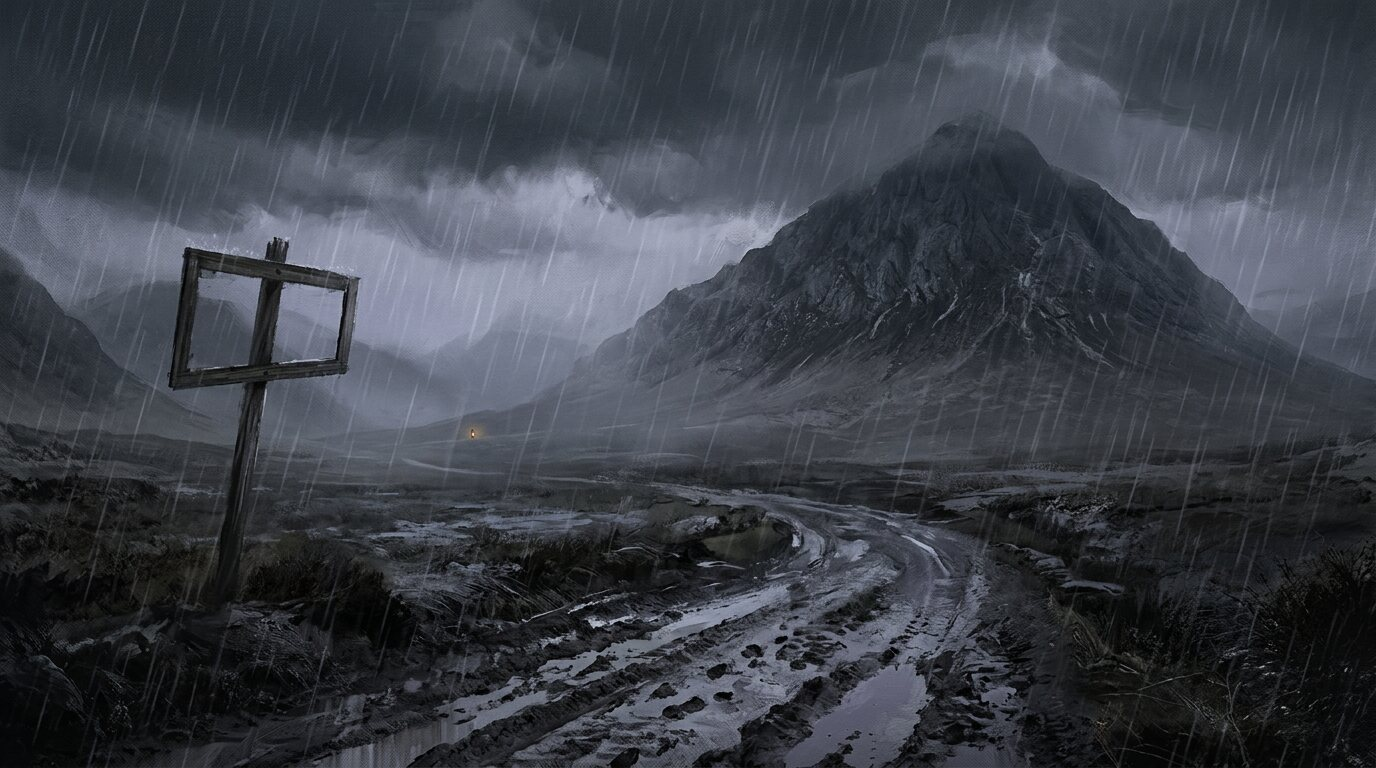
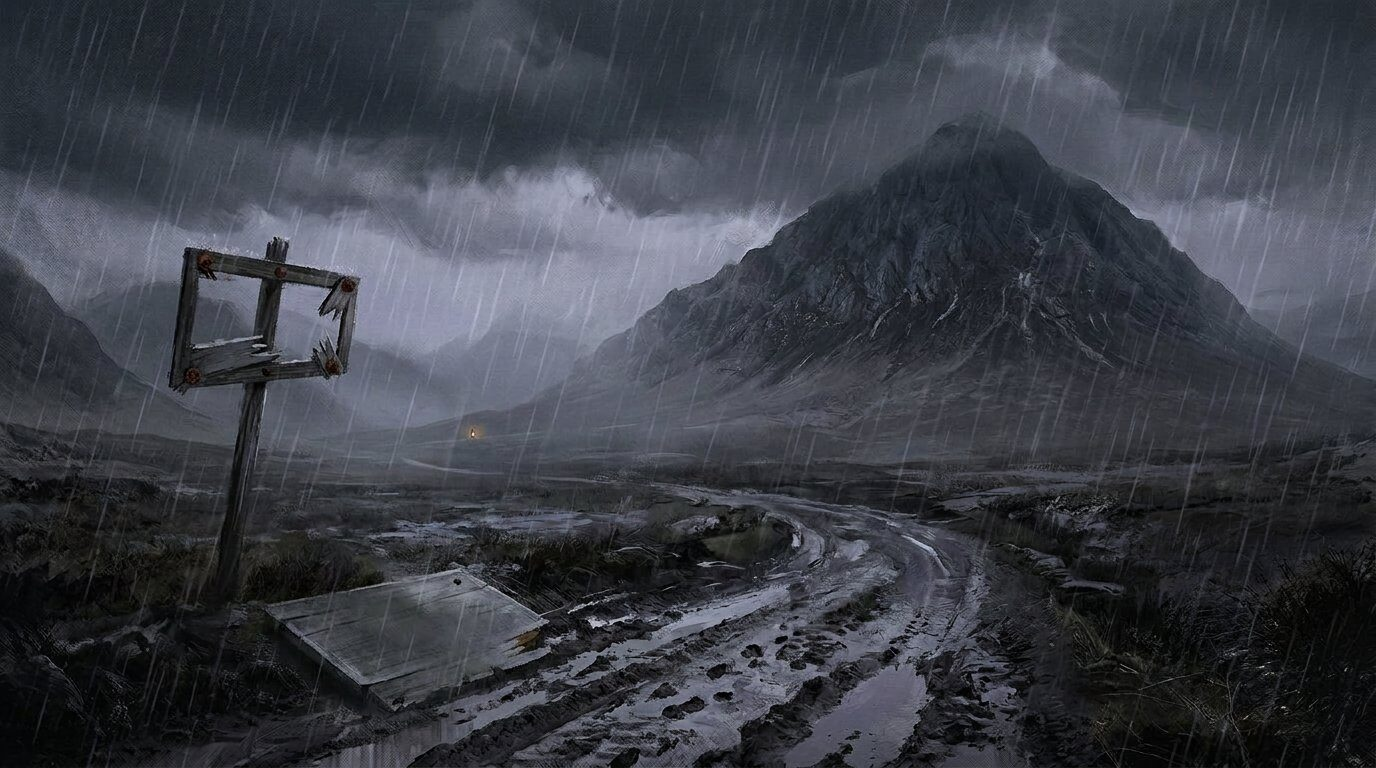
Image generation guide; re-cut the Mount Ebot images from the prose
The first Mount Ebot set was generated from vibes and came out generic: two
blank signs, a helicopter tagged with the invented word CRERA, and stock storm
scenery that could have illustrated any filing in the archive.

- docs/IMAGE_GENERATION_GUIDE.md (new): prompt sheet BEFORE generating, art
  direction taken from the prose, the corrected text-in-image rule, view every
  result, fix by editing rather than rerolling. Worked examples for all six
  Mount Ebot slots with the source lines quoted.
- Corrected the 'never put text in an image' rule in README.md and gemini.md.
  It was wrong: the memorial plank and the one-T summit marker ARE their text.
- Re-cut all six images as edits of the originals, each carrying detail from
  the section it illustrates: torn-down signpost, half-scrubbed livery with no
  lettering, severed tail boom and the 61-foot gouge, the six pale trigger
  plates and brass nozzles, the four burned names with PRINCE ALPHONSE rubbed
  grey, and MOUNT EBOT - SUMMIT - 1,340 FT spelled with one T.
- Updated four captions to match what the images now show.
- Indexed the new guide in the entry README doc table.

Changed region(s): [[0.1875, 0.7188, 0.4375, 0.9375], [0.125, 0.3125, 0.2812, 0.5], [0.4688, 0.9375, 0.5, 0.9688]]

diff --git a/docs/IMAGE_GENERATION_GUIDE.md b/docs/IMAGE_GENERATION_GUIDE.md
@@ -1,0 +1,283 @@
+# Image Generation Guide — building the prompt before spending the generation
+
+**Every generation costs. Write the prompt sheet first, review it, then generate.**
+
+This guide exists because the first pass of Mount Ebot images was generated
+straight from vibes — "storm, mountain, dark fantasy" — and produced six
+technically competent pictures that could have illustrated *any* story in the
+archive. A blank signpost. A generic stone bridge. A helicopter with the
+nonsense word `CRERA` on the tail. None of it was wrong, exactly. It was
+*unspecific*, which in this archive is the same as wrong.
+
+> **The test:** could this image be dropped into a different filing without
+> anyone noticing? If yes, it is not an illustration of *this* story. Delete
+> the prompt and start again.
+
+---
+
+## The rule that governs everything else
+
+**The prose is the art direction.** You are not inventing a scene. The scene
+already exists, in detail, in `overview` text somebody wrote carefully. Your
+job is transcription, not imagination.
+
+Before writing a single prompt, open the section and pull out every concrete
+noun: materials, measurements, damage, weather, light sources, what is written
+on things, what is broken, what colour the blood is. The story has already done
+the work. **Mount Ebot gives you "tape across the fuel gauge," "rings like a
+bin lid," "sixty-one feet," "no wider than a coin," "weathered silver,"
+"1,340 FT."** Every one of those is a visual instruction. A prompt that does
+not use them is a prompt written by someone who did not read the section.
+
+---
+
+## The process, in order
+
+### Step 1 — Build the prompt sheet (no generation yet)
+
+Create a scratch file — `/tmp/<slug>-prompts.md` — with one block per planned
+image. **Do not call `generate_image` during this step.** The sheet is a
+deliverable in its own right: it gets reviewed, corrected, and only then spent.
+
+Each block must contain:
+
+| Field | What goes in it |
+|---|---|
+| **Slot** | `lead`, or the section number and name |
+| **Source lines** | The literal sentences from the prose the image must depict. Quote them. |
+| **Must appear** | The checklist of specific objects. This is what you verify against afterwards. |
+| **Must NOT appear** | The generic defaults to suppress — usually people, and usually the wrong century of technology |
+| **Text in image** | Either `NONE` or the exact string, letter for letter |
+| **Prompt** | The final prompt text |
+
+### Step 2 — Review the sheet against the prose
+
+Read each "Must appear" list next to the section text. Anything in the list not
+traceable to a sentence is invention — cut it. Anything vivid in the section
+missing from the list — add it. This is the cheap step. Do it properly and the
+expensive step usually works first time.
+
+### Step 3 — Generate
+
+One call per slot, `generate_image`, saving straight to the final path.
+
+### Step 4 — **Look at every image you generated**
+
+Non-negotiable. Call `read_file` on each one and actually look at it. The model
+will confidently hand back a signpost with no sign on it. Check against the
+"Must appear" list, item by item.
+
+### Step 5 — Edit rather than reroll
+
+`generate_image` takes an `images` array. Pass the existing file and describe
+**only the change**. This preserves the composition and lighting you already
+paid for and fixes the one thing that is wrong. Rerolling from scratch throws
+away a good frame to fix a small defect.
+
+### Step 6 — Compress, wire, verify
+
+Covered in [Anatomy](#anatomy-of-a-prompt) and the checklist at the end.
+
+---
+
+## The text-in-image rule — **corrected**
+
+An earlier version of this guide said "never put text in an image, generated
+lettering always renders wrong." **That rule was wrong and it damaged the
+Mount Ebot set.**
+
+The truth is more specific:
+
+- **Text the story requires is mandatory.** The Mount Ebot file is *about* a
+  missing letter T. A summit plank reading `MOUNT EBOT — SUMMIT — 1,340 FT`
+  is the punchline of a 6,000-word filing made visible. A memorial plank whose
+  whole meaning is that one of four burned names has been rubbed grey **cannot**
+  be depicted as a blank plank. Rendering those blank does not avoid a risk; it
+  throws away the entire point of the picture.
+- **Decorative text is forbidden.** Never let the model free-associate lettering
+  — that is where `CRERA` came from. If text is not specified exactly, say
+  `no text, no lettering, no signage, no watermarks` and mean it.
+- **When text is required, give it letter for letter, in caps, in quotes**, and
+  keep it short. Long strings degrade. State the medium too — *burned into the
+  wood with a hot iron, strokes wobbling* — because "how it was made" controls
+  the letterforms better than the word "text" does.
+- **Then read the image and check the spelling by eye.** Especially where the
+  joke is a spelling. If it comes back `EBOTT` on the plank, the image has told
+  the opposite of the story and must be edited.
+
+---
+
+## Anatomy of a prompt
+
+Six parts, in this order. The first and last are fixed; the middle four come
+from the prose.
+
+1. **Medium + register.** `Moody painterly digital concept art, dark fantasy
+   archive plate, wide cinematic 16:9.` Keeps the set visually consistent —
+   every image in the archive should look like it came from the same hand.
+2. **Subject and camera.** What we are looking at and from where. *Seen from
+   deep inside looking back toward the entrance* is worth more than any
+   adjective.
+3. **The specific objects**, with their materials and measurements, straight
+   from the prose. This is the bulk of the prompt and the part that stops the
+   image being generic.
+4. **Light and weather**, also from the prose. Name the sources and their
+   colours: *cold blue daylight from the slot, warm orange from a dropped
+   lantern.*
+5. **Palette.** `Desaturated slate, violet shadow, wet stone reflections.`
+6. **Negatives.** `No people, no text.` (or the exact required text), then
+   `Oil-painting texture, atmospheric depth, high detail.`
+
+**On people:** default to `no people`. Faces and hands are where generators
+fail hardest, and a place photographed empty reads as archival evidence, which
+is the voice of this wiki. Depict the aftermath instead of the actor — the
+gouge in the gravel, not the crash; the burned plank, not the mourner.
+
+---
+
+## Worked examples — the Mount Ebot set
+
+These are the real prompt blocks for the six shipped images, rebuilt from the
+prose. Use them as the pattern.
+
+### Slot 1 — lead — the mountain and the empty signpost
+
+**Source lines:** *"1,340 feet of wet slate"*; caption: *"The board on the
+signpost was already missing."*
+
+**Must appear:** a signpost frame with the board genuinely gone (empty rectangle,
+two bolt holes, split where it was levered off); a rutted mud track running to
+the peak; a squat 1,340-ft slate mountain — a hill, not an alp; heavy rain.
+**Must NOT appear:** people, vehicles, dramatic alpine scale.
+**Text:** NONE — the missing board *is* the subject.
+
+> Moody painterly digital concept art, dark fantasy archive plate, wide cinematic
+> 16:9. A wet valley track of churned mud and standing puddles leading toward a
+> squat, broad slate mountain about 1,340 feet high — a big ugly hill, not an
+> alpine peak, streaked with rain and scree. In the left foreground a weathered
+> timber signpost whose board has been torn off: an empty rectangular frame, two
+> rusted bolts and two empty bolt holes, the wood split where the sign was levered
+> away. Heavy grey rain, low dragging cloud, one distant amber-lit window far off
+> in the valley. Desaturated slate and violet shadow, wet reflections. No people,
+> no text, no lettering. Oil-painting texture, high detail.
+
+### Slot 2 — §IV — the charter on the villa pad
+
+**Source lines:** *"a chartered grey thing with the livery half-scrubbed off and
+tape across the fuel gauge"*; *"a cracked chin-bubble"*; *"patted the charter's
+flank, which rang like a bin lid"*; the loaded crates — *rations, coils of rope,
+a crate of climbing iron, the oilcloth-wrapped map, six wrapped loaves.*
+
+**Must appear:** grey helicopter, livery **half-scrubbed** (ghost of paint, not
+clean); cracked chin bubble; thin dented panels; night villa pad with a lit
+balcony; crates, rope coils, oilcloth bundle.
+**Must NOT appear:** military markings, invented squadron text, crisp new paint.
+**Text:** NONE on the airframe. *(The taped fuel gauge is cockpit-interior
+detail — it is carried by the caption, not the frame.)*
+
+> …a fat grey civilian charter helicopter on a stone villa landing pad at night,
+> its livery **half scrubbed off leaving ghost patches of old paint and bare
+> primer**, the chin bubble cracked in a spiderweb, thin dented panels. Wooden
+> crates, coils of rope, and an oilcloth-wrapped bundle stacked by the skids. A
+> lit stone balcony above… **absolutely no lettering, no numbers, no insignia
+> anywhere on the aircraft.**
+
+### Slot 3 — §IX — the cave took the aircraft in
+
+**Source lines:** *"a black slot in the streaming stone, wide enough and no
+wider"*; *"sixty-one feet"* of slide; *"the tail boom screaming along the wall
+until a boulder took it off"*; *"the slow tick, tick, tick of hot metal."*
+
+**Must appear:** the gouge in wet gravel behind the wreck; **tail boom torn
+off** and lying separately by a boulder; snapped rotor; the entrance slot as a
+narrow bright gash high in the wall; a dropped lantern.
+**Text:** NONE.
+
+### Slot 4 — §XIII — the bridge that had been improved
+
+**Source lines:** *"cut stone, mortared, with a low parapet and drainage
+channels"*; *"slots — clean, machined, no wider than a coin, spaced a stride
+apart"* at knee and shin height; *"brass nozzles the diameter of a thumb…
+their throats black with old soot"*; *"six stone plates a shade paler than the
+rest of the stonework, each one set a fraction low."*
+
+**Must appear:** all four improvements, **including the six pale sunken plates
+in the deck** and the brass nozzles under the deck lip. The plates are the
+mechanism of the scene; an image without them is just a bridge.
+**Text:** NONE.
+
+### Slot 5 — §XIV — four names on a plank
+
+**Source lines:** *"A plank, a hand's width thick, weathered silver, bolted to
+two iron stakes driven deep. The lettering was burned in rather than painted —
+a hot iron, worked slowly, the strokes wobbling where the hand had got tired."*
+The fourth name *"rubbed, repeatedly, with something soft and greasy, until the
+burned grooves had filled with grey."*
+
+**Text: REQUIRED, exactly** —
+`RIP - 4 MISSING HUMANS` / `JAVIER  MIKAELA  DANIEL` / `PRINCE ALPHONSE`
+— with the last line rubbed grey and half-illegible while the three names above
+stay crisp. **This is the entire content of the image.** A blank plank here is a
+failed image, not a safe one.
+
+### Slot 6 — §XVII — one T
+
+**Source lines:** *"a cairn, a view of grey rain in every direction, and a
+second plank… smaller and older… nailed to a post."* The map opened on the flat
+of the cairn, cartouche reading `THE OLD WORLD MAPPING COMPANY`.
+
+**Text: REQUIRED, exactly** — `MOUNT EBOT` / `SUMMIT - 1,340 FT` /
+`NO FURTHER SERVICE`. **`EBOT` has ONE T.** The joke, the title, and the cause
+of the entire disaster are all that single letter. Verify it by eye after
+generation; if it renders `EBOTT`, edit the image until it does not.
+
+---
+
+## Naming, compression, wiring
+
+**Path:** `Reputation-Matrix2/assets/images/<type>/<slug>/<prefix>-<nn>-<subject>.jpg`
+— e.g. `assets/images/events/mount-ebot/ebot-04-bridge.jpg`. Zero-padded,
+numbered in order of appearance.
+
+**Compress before committing.** Generated files are far too heavy for a static
+site. This environment has **ImageMagick v6 only** — there is no `magick`,
+`cwebp`, `pngquant`, or `optipng`:
+
+```bash
+convert in.png -resize 1600x1600\> -strip -interlace Plane -quality 82 out.jpg
+```
+
+Target **under ~300 KB**. Check with `ls -la`; re-run at lower quality on any
+file that is over.
+
+**Wire into the JSON** (paths relative to `Reputation-Matrix2/`):
+
+```json
+"image": "assets/images/events/mount-ebot/ebot-01-mountain.jpg",
+"imageCaption": "Mount Ebot from the valley track, photographed on a later survey. One T."
+```
+
+`image` + `imageCaption` on the **record** render the lead figure
+(`index.html` → `figure.article-lead-img`); the same two keys on a **section**
+object render an inline figure (`figure.section-figure`, lazy-loaded). A wrong
+path fails silently to a placeholder, so verify on the page.
+
+**Captions are filings, not alt text.** State what is shown, when it was taken,
+and what it proves or cost. *"The bridge"* fails. *"Machined slots at knee and
+shin height, razors angled to catch a leg going forward"* passes. The caption
+may carry detail the picture cannot — the taped fuel gauge, the pacing-out of
+sixty-one feet — and it is the right place for the archive's dry verdict.
+
+---
+
+## Final checklist
+
+- [ ] Prompt sheet written and reviewed **before** any generation
+- [ ] Every "Must appear" item traceable to a sentence in the prose
+- [ ] Required text specified letter for letter; decorative text suppressed
+- [ ] Every generated image **actually viewed** with `read_file`
+- [ ] Spelling on any in-image lettering checked by eye
+- [ ] Defects fixed by **editing** the existing image, not rerolling
+- [ ] All files under ~300 KB
+- [ ] Paths wired into the JSON and confirmed to exist on disk
+- [ ] Article loaded in a browser; every figure renders

diff --git a/Reputation-Matrix2/README.md b/Reputation-Matrix2/README.md
@@ -120,16 +120,20 @@ Every new session event or long narrative filing ships **with images**. This is 
 **Step by step:**
 
 1. **Pick the beats.** One lead image for the record, plus one image for each section that contains a *place, an object, or a piece of evidence a reader would want to look at*. Three to six section images for a long filing is the working band. Do not illustrate every section — illustrate the ones where seeing the thing changes how the paragraph lands.
-2. **Generate the image.** Use the `generate_image` tool. Write the prompt from the prose itself: the actual weather, the actual materials, the actual time of day, the actual damage. Ask for **in-world documentary photography or survey plate**, not concept art or a poster. No text, no lettering, no captions burned into the image — captions are a data field, and generated lettering always comes out wrong.
-3. **Save to the right place.** `Reputation-Matrix2/assets/images/events/<event-slug>/<prefix>-<nn>-<subject>.jpg` — zero-padded, ordered by appearance. Example: `assets/images/events/mount-ebot/ebot-03-cave.jpg`.
-4. **Compress before committing.** Generated files land far too large for a static site. This environment has **ImageMagick v6 only** — there is no `magick`, `cwebp`, `pngquant`, or `optipng`. Use:
+2. **Write the prompt sheet first — before generating anything.** Generations cost. Pull the concrete nouns out of the section (materials, measurements, damage, light sources, what is written on things) and write a block per image listing the source lines, a "must appear" checklist, and the prompt. Review that sheet against the prose, *then* spend the calls. Full procedure and worked examples: [`docs/IMAGE_GENERATION_GUIDE.md`](../docs/IMAGE_GENERATION_GUIDE.md).
+3. **Generate the image.** Use the `generate_image` tool, prompting from the prose itself: the actual weather, the actual materials, the actual time of day, the actual damage. Ask for **in-world documentary photography or survey plate**, not concept art or a poster.
+4. **Text in the image: only when the story requires it.** Decorative lettering is forbidden — left free, the model invents nonsense words. But when the prose turns on something written (a memorial plank, a summit marker, a spelling that caused the disaster), that text is the *subject* and must be specified letter for letter, in caps, in quotes, with the medium described ("burned in with a hot iron, strokes wobbling"). Then check the spelling by eye afterwards.
+5. **Look at every image you generated.** `read_file` each one and actually inspect it against the checklist. The model will hand back a blank signpost without comment.
+6. **Fix defects by editing, not rerolling.** `generate_image` accepts an `images` array — pass the existing file and describe only the change. This keeps the composition you already paid for.
+7. **Save to the right place.** `Reputation-Matrix2/assets/images/events/<event-slug>/<prefix>-<nn>-<subject>.jpg` — zero-padded, ordered by appearance. Example: `assets/images/events/mount-ebot/ebot-03-cave.jpg`.
+8. **Compress before committing.** Generated files land far too large for a static site. This environment has **ImageMagick v6 only** — there is no `magick`, `cwebp`, `pngquant`, or `optipng`. Use:
 
    ```bash
    convert in.png -resize 1600x1600\> -strip -interlace Plane -quality 82 out.jpg
    ```
 
    Target **under ~300 KB per image**. Check with `ls -la` and re-run at a lower quality if any file is over.
-5. **Wire it into the JSON.** Paths are relative to `Reputation-Matrix2/`, and both fields are optional per level:
+9. **Wire it into the JSON.** Paths are relative to `Reputation-Matrix2/`, and both fields are optional per level:
 
    ```json
    "image": "assets/images/events/mount-ebot/ebot-01-mountain.jpg",
@@ -137,8 +141,8 @@ Every new session event or long narrative filing ships **with images**. This is 
    ```
 
    `image` / `imageCaption` on the **record** renders the lead figure; the same two keys on a **section** object render an inline figure inside that section.
-6. **Write the caption in archive voice.** A caption is a filing, not alt text. It states what is shown, when it was taken, and what it proves or costs. "The bridge" is a failure. "Machined slots at knee and shin height, razors angled to catch a leg going forward" is a caption.
-7. **Verify.** Confirm the JSON parses, load the article, and check every figure actually renders — a wrong path fails silently into a placeholder.
+10. **Write the caption in archive voice.** A caption is a filing, not alt text. It states what is shown, when it was taken, and what it proves or costs. "The bridge" is a failure. "Machined slots at knee and shin height, razors angled to catch a leg going forward" is a caption.
+11. **Verify.** Confirm the JSON parses, load the article, and check every figure actually renders — a wrong path fails silently into a placeholder.
 
 ### Attaching exhibits (clickable in-world documents)
 

diff --git a/Reputation-Matrix2/gemini.md b/Reputation-Matrix2/gemini.md
@@ -49,18 +49,22 @@ If a week passes with none of the above, **no episode is cut** and the existing 
 ### A. Images — the procedure
 
 1.  **Choose the beats.** One lead image on the record, then one per section containing a place, an object, or a piece of evidence worth looking at. Three to six section images on a long filing. Illustrate where seeing the thing changes the paragraph; skip the rest.
-2.  **Generate.** Use the `generate_image` tool, prompting from the prose itself — real weather, real materials, real time of day, real damage. Ask for **in-world documentary photography or a survey plate**, never concept art or a poster. **No text or lettering in the image**; captions are a data field and generated lettering always renders wrong.
-3.  **Save.** `Reputation-Matrix2/assets/images/events/<event-slug>/<prefix>-<nn>-<subject>.jpg`, zero-padded and ordered by appearance.
-4.  **Compress.** Generated files are far too heavy for a static site. This environment has **ImageMagick v6 only** — no `magick`, `cwebp`, `pngquant`, or `optipng`:
+2.  **Write the prompt sheet before generating.** Generations cost — do not spend them on vibes. Pull the concrete nouns from the section (materials, measurements, damage, light, what is written on things) into a per-image block: source lines, "must appear" checklist, prompt. Review it against the prose, then generate. Full procedure and worked examples: [`../docs/IMAGE_GENERATION_GUIDE.md`](../docs/IMAGE_GENERATION_GUIDE.md).
+3.  **Generate.** Use the `generate_image` tool, prompting from the prose itself — real weather, real materials, real time of day, real damage. Ask for **in-world documentary photography or a survey plate**, never concept art or a poster.
+4.  **Text in the image only when the story requires it.** Decorative lettering is forbidden — unprompted, the model invents nonsense (a Mount Ebot helicopter came back tagged `CRERA`). But when the prose turns on something written — a memorial plank, a summit marker, the one-T spelling that caused the disaster — that text *is* the subject: specify it letter for letter, in caps, in quotes, and describe the medium ("burned in with a hot iron, wobbling strokes"). Check the spelling by eye afterwards.
+5.  **View every generated image** with `read_file` and check it against the "must appear" list. The model will return a blank signpost and say nothing.
+6.  **Fix defects by editing, not rerolling** — pass the file in `generate_image(images=[...])` and describe only the change.
+7.  **Save.** `Reputation-Matrix2/assets/images/events/<event-slug>/<prefix>-<nn>-<subject>.jpg`, zero-padded and ordered by appearance.
+8.  **Compress.** Generated files are far too heavy for a static site. This environment has **ImageMagick v6 only** — no `magick`, `cwebp`, `pngquant`, or `optipng`:
 
     ```bash
     convert in.png -resize 1600x1600\> -strip -interlace Plane -quality 82 out.jpg
     ```
 
     Target **under ~300 KB**. Confirm with `ls -la`; drop the quality and re-run on anything over.
-5.  **Wire.** Paths are relative to `Reputation-Matrix2/`. `"image"` + `"imageCaption"` on the record render the lead figure; the same two keys on a section object render an inline figure in that section.
-6.  **Caption in archive voice.** State what is shown, when, and what it proves or cost. A caption is a filing, not alt text.
-7.  **Verify.** JSON parses, article loads, every figure renders — a bad path fails silently to a placeholder.
+9.  **Wire.** Paths are relative to `Reputation-Matrix2/`. `"image"` + `"imageCaption"` on the record render the lead figure; the same two keys on a section object render an inline figure in that section.
+10. **Caption in archive voice.** State what is shown, when, and what it proves or cost. A caption is a filing, not alt text.
+11. **Verify.** JSON parses, article loads, every figure renders — a bad path fails silently to a placeholder.
 
 ### B. Exhibits — clickable in-world documents
 

diff --git a/README.md b/README.md
@@ -86,6 +86,7 @@ Six things that explain nearly every decision in this repository:
 | [`docs/STORY_FORMAT_GUIDE.md`](docs/STORY_FORMAT_GUIDE.md) | Craft standard for **canon session events** — prose, asides, apparatus, battle pages | Writing an event |
 | [`docs/WHATIF_FORMAT_GUIDE.md`](docs/WHATIF_FORMAT_GUIDE.md) | Craft standard for **non-canon What-Ifs** — decision engine, ledger, findings, verdict | Writing a What-If |
 | [`docs/RNN_BROADCAST_GUIDE.md`](docs/RNN_BROADCAST_GUIDE.md) | The news broadcast. **One episode per ~10 events**, the pending list, the voice | Cutting an episode |
+| [`docs/IMAGE_GENERATION_GUIDE.md`](docs/IMAGE_GENERATION_GUIDE.md) | **Prompt sheet before generating.** Art direction from the prose, when text belongs in an image, editing over rerolling | Illustrating any filing |
 | [`docs/VERIFICATION_AND_ORGANIZATION.md`](docs/VERIFICATION_AND_ORGANIZATION.md) | Checks that catch breakage; rules that prevent bloat; where files go | Before calling a run done |
 | [`docs/RUN_REPORT_FORMAT.md`](docs/RUN_REPORT_FORMAT.md) | How to report at the end of a run — every file, every event, every XP award | End of every run |
 | [`docs/AUDIT_SCRIPTS.md`](docs/AUDIT_SCRIPTS.md) | The two craft-audit scripts (advisory) | Checking a draft’s numbers |
